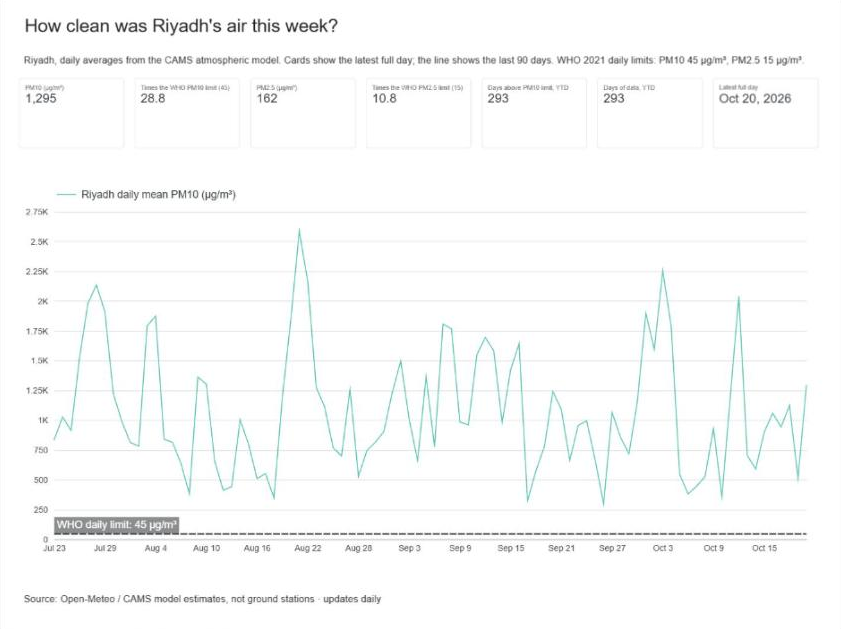
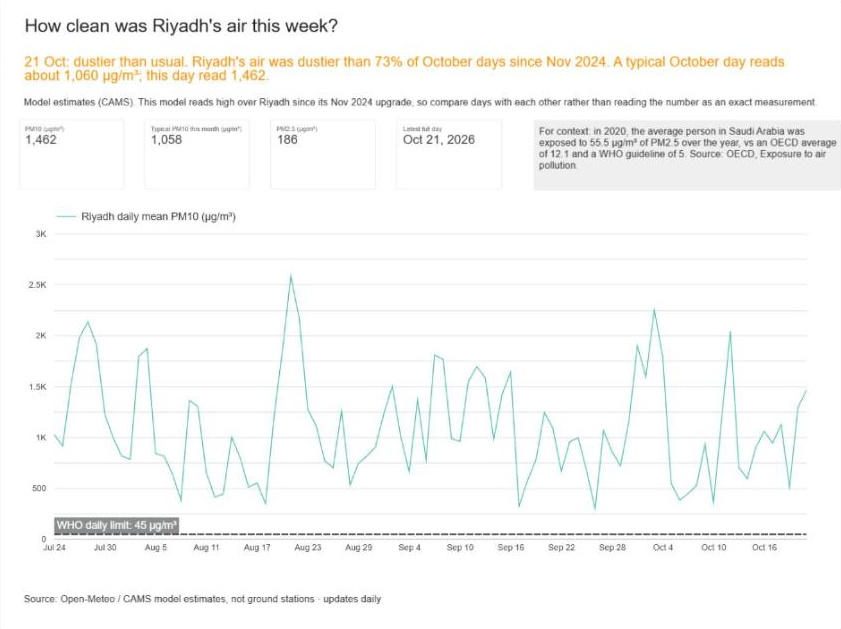
Update the page 1 screenshot

diff --git a/README.md b/README.md
@@ -6,7 +6,7 @@ This project answers that every day, with no manual work. A Python script on Git
 
 **Live dashboard:** [Riyadh Air Quality & Dust Tracker (Looker Studio)](https://datastudio.google.com/reporting/ae53592e-9b5c-4750-8d65-7ada64b39ccc)
 
-![How clean was Riyadh's air this week?](screenshots/01-this-week.png)
+![How clean was Riyadh's air this week? The page leads with a verdict comparing the latest day with usual days of the same month.](screenshots/01-this-week.png)
 
 | When is Riyadh's air worst? | How does Riyadh compare with other Gulf cities? |
 |---|---|
